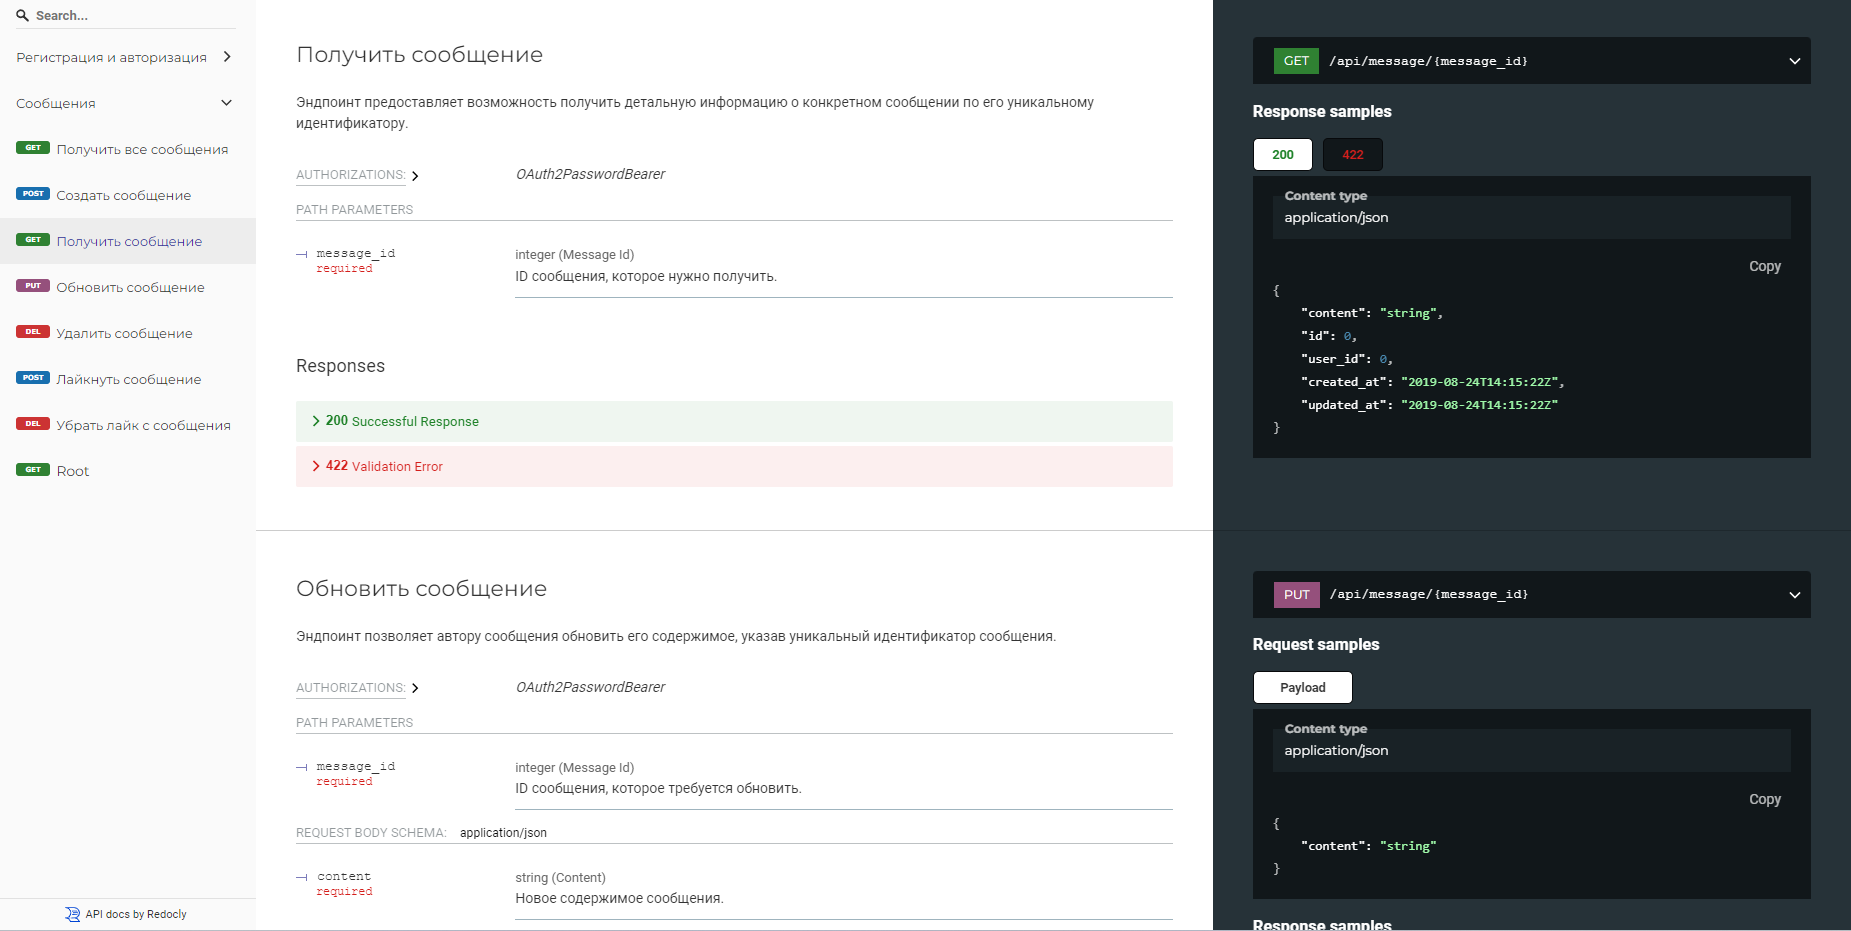
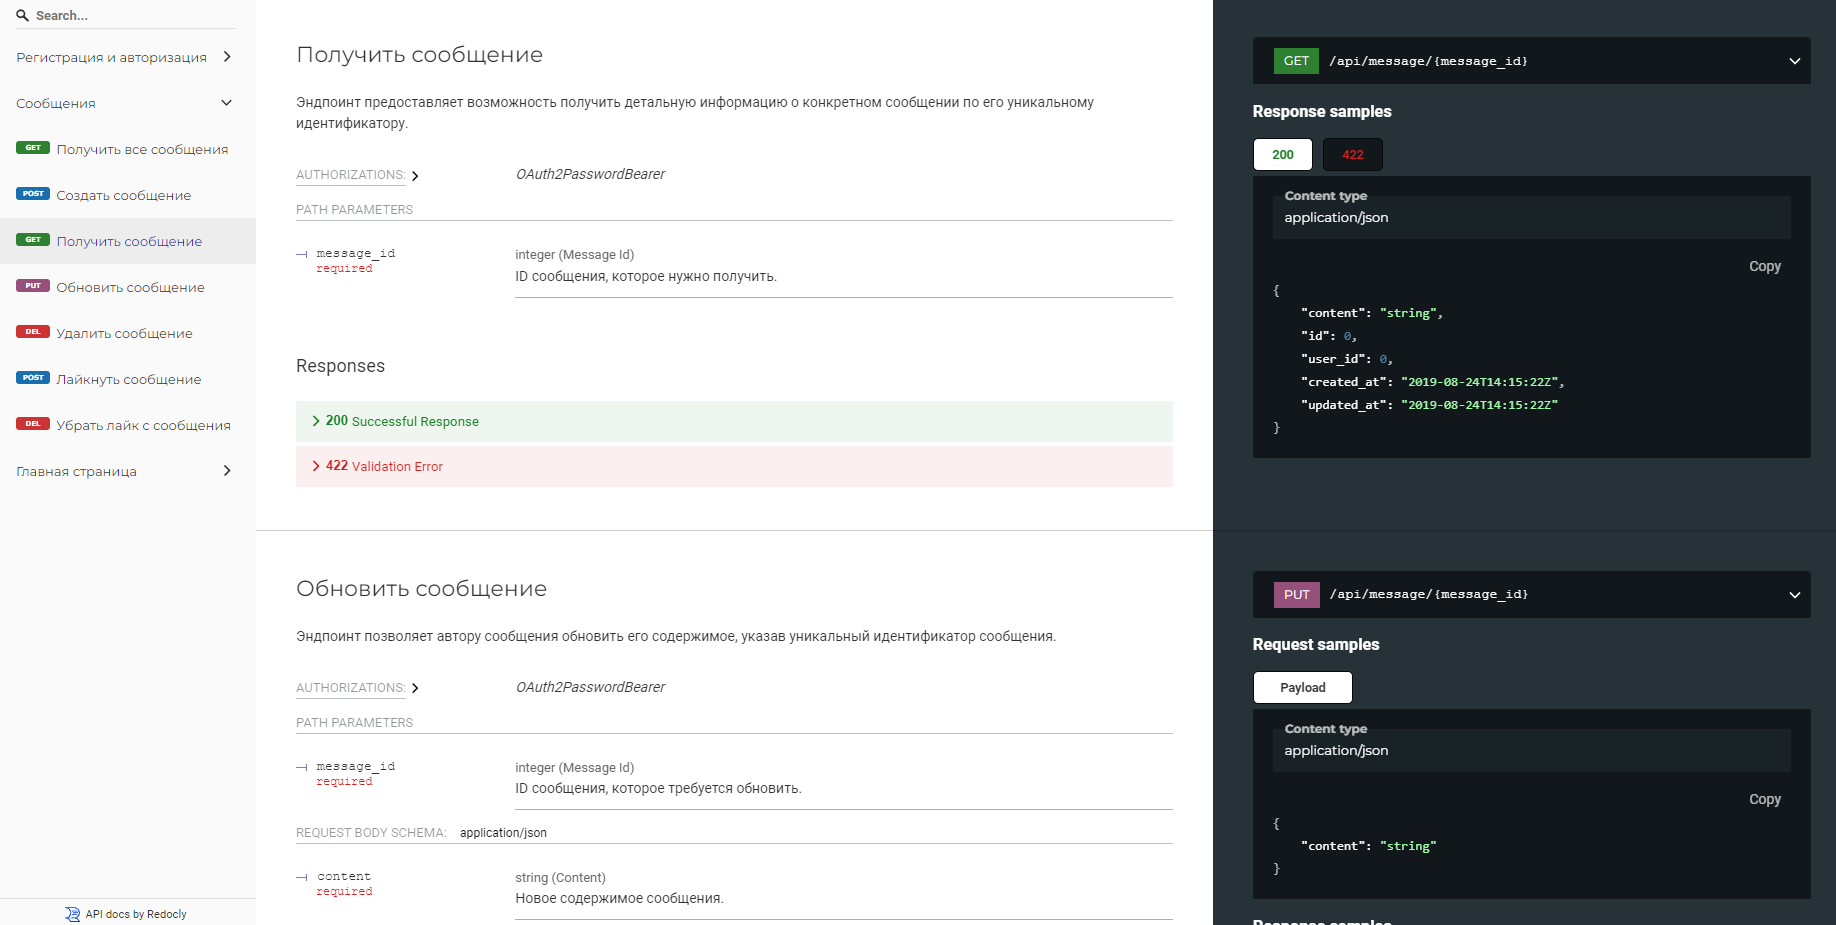
Initial commit

diff --git a/main.py b/main.py
@@ -23,7 +23,8 @@ app.include_router(
 )
 
 
-@app.get("/")
+@app.get("/", tags=["Главная страница"], summary="Приветствие",
+         description="Проверка авторизации пользователя и вывод приветственного сообщения.")
 async def root(user: User = Depends(fastapi_users.current_user(optional=True))):
     if user:
         return {"message": f"Привет, {user.username}"}
